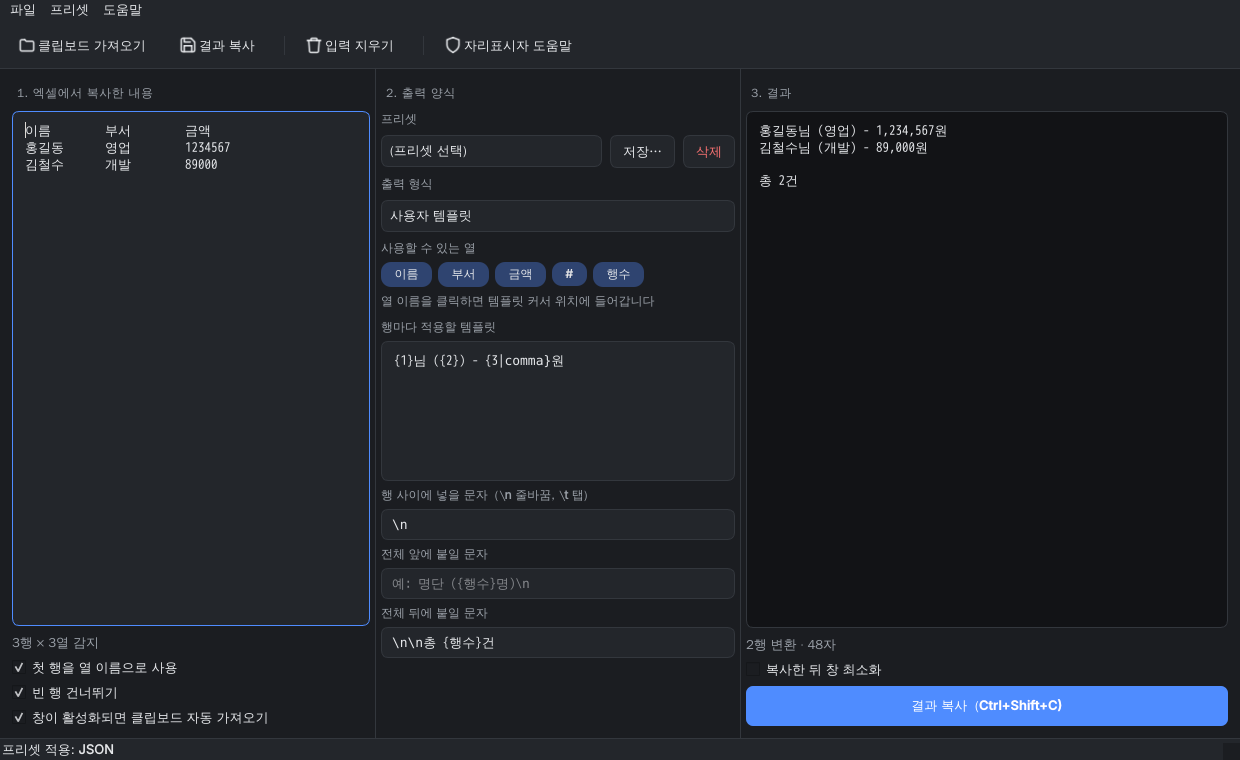
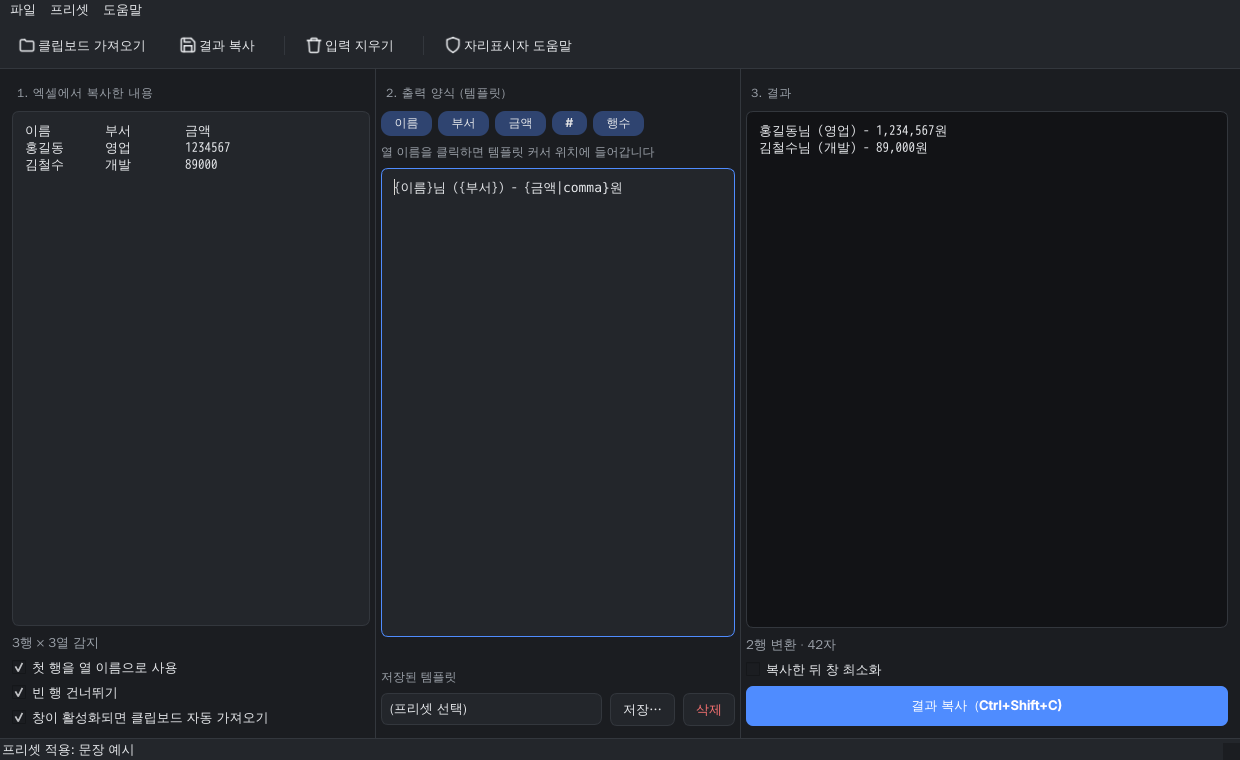
Excel Paster: 출력 양식을 템플릿 글상자 하나로 단순화
출력 형식 선택(마크다운/CSV/JSON)과 행 사이·앞·뒤 문자 칸을 없애고,
템플릿에 적은 글이 행마다 반복되어 줄바꿈으로 이어지는 방식만 남김.
여러 줄 템플릿은 그대로 행마다 반복되며, 끝에 빈 줄을 두면 행 사이가
띄어짐. 이전 버전 프리셋(row_template)도 읽힘. README·스크린샷 갱신.

Claude-Session: https://claude.ai/code/session_01BsTnYST2jFKeuSFEv2JFZG

diff --git a/excelpaster/core.py b/excelpaster/core.py
@@ -10,14 +10,6 @@ from dataclasses import asdict, dataclass, replace
 
 Table = list[list[str]]
 
-MODES = ("template", "markdown", "csv", "json")
-MODE_LABELS = {
-    "template": "사용자 템플릿",
-    "markdown": "마크다운 표",
-    "csv": "CSV",
-    "json": "JSON",
-}
-
 # 특수 자리표시자 (열 이름보다 우선하지 않음 — 같은 이름의 열이 있으면 열이 우선)
 ROW_NUMBER_KEYS = ("#", "행번호", "n", "row")
 ROW_COUNT_KEYS = ("행수", "rows", "count")
@@ -29,11 +21,7 @@ class FormatSpec:
     """변환 방법 하나. 프리셋으로 저장/불러오기 할 수 있도록 JSON 직렬화 가능."""
 
     name: str = ""
-    mode: str = "template"
-    row_template: str = "{1}"
-    joiner: str = "\\n"      # 행 사이 (이스케이프 문자열: \n, \t 사용 가능)
-    prefix: str = ""         # 전체 앞
-    suffix: str = ""         # 전체 뒤
+    template: str = "{1}"    # 행마다 반복되는 글. 행 사이는 줄바꿈
     header_row: bool = True  # 첫 행을 열 이름으로 사용
     skip_blank_rows: bool = True
 
@@ -43,10 +31,9 @@ class FormatSpec:
     @classmethod
     def from_dict(cls, d: dict) -> "FormatSpec":
         known = {k: v for k, v in d.items() if k in cls.__dataclass_fields__}
-        spec = cls(**known)
-        if spec.mode not in MODES:
-            spec.mode = "template"
-        return spec
+        if "template" not in known and "row_template" in d:  # 이전 버전 프리셋
+            known["template"] = d["row_template"]
+        return cls(**known)
 
     def copy(self, **changes) -> "FormatSpec":
         return replace(self, **changes)
@@ -100,15 +87,6 @@ def column_names(table: Table, header_row: bool) -> list[str]:
 
 
 # ---------------------------------------------------------------- 템플릿
-
-_ESC_RE = re.compile(r"\\(n|t|r|\\)")
-_ESC_MAP = {"n": "\n", "t": "\t", "r": "\r", "\\": "\\"}
-
-
-def unescape(s: str) -> str:
-    """한 줄짜리 입력칸에서 \\n, \\t 를 실제 문자로."""
-    return _ESC_RE.sub(lambda m: _ESC_MAP[m.group(1)], s)
-
 
 class TemplateError(ValueError):
     pass
@@ -275,83 +253,25 @@ def render_template(template: str, headers: list[str], row: list[str],
 
 # ---------------------------------------------------------------- 렌더링
 
-def _md_cell(s: str) -> str:
-    return s.replace("|", "\\|").replace("\r\n", "<br>").replace("\n", "<br>")
-
-
-def render_markdown(headers: list[str], data: Table) -> str:
-    if not headers:
-        return ""
-    cols = [h if h else str(i + 1) for i, h in enumerate(headers)]
-    widths = [len(c) for c in cols]
-    body = [[_md_cell(c) for c in r] for r in data]
-    for r in body:
-        for i, c in enumerate(r):
-            widths[i] = max(widths[i], len(c))
-    widths = [max(w, 3) for w in widths]
-
-    def line(cells: list[str]) -> str:
-        return "| " + " | ".join(c.ljust(widths[i]) for i, c in enumerate(cells)) + " |"
-
-    lines = [line(cols), "| " + " | ".join("-" * w for w in widths) + " |"]
-    lines.extend(line(r) for r in body)
-    return "\n".join(lines)
-
-
-def render_csv(headers: list[str], data: Table, header_row: bool) -> str:
-    buf = io.StringIO()
-    w = csv.writer(buf, lineterminator="\n")
-    if header_row:
-        w.writerow(headers)
-    w.writerows(data)
-    return buf.getvalue().rstrip("\n")
-
-
-def render_json(headers: list[str], data: Table, header_row: bool) -> str:
-    if header_row:
-        keys = [h if h else str(i + 1) for i, h in enumerate(headers)]
-        obj = [dict(zip(keys, r)) for r in data]
-    else:
-        obj = data
-    return json.dumps(obj, ensure_ascii=False, indent=2)
-
-
 def render(table: Table, spec: FormatSpec) -> str:
-    """표 전체를 spec 대로 텍스트로. 템플릿 오류는 TemplateError."""
+    """템플릿을 행마다 적용해 줄바꿈으로 이어 붙인 텍스트. 템플릿 오류는 TemplateError.
+
+    템플릿이 여러 줄이면 그 여러 줄이 행마다 반복된다. 템플릿 끝에 빈 줄을 두면 행 사이가 한 줄 띄어진다.
+    """
     headers, data = split_table(table, spec.header_row, spec.skip_blank_rows)
     if not headers:
         return ""
-    if spec.mode == "markdown":
-        body = render_markdown(headers, data)
-    elif spec.mode == "csv":
-        body = render_csv(headers, data, spec.header_row)
-    elif spec.mode == "json":
-        body = render_json(headers, data, spec.header_row)
-    else:
-        n = len(data)
-        rows = [render_template(spec.row_template, headers, r, i + 1, n) for i, r in enumerate(data)]
-        body = unescape(spec.joiner).join(rows)
-    meta_row = [""] * len(headers)
-    prefix = render_template(unescape(spec.prefix), headers, meta_row, 0, len(data)) if spec.prefix else ""
-    suffix = render_template(unescape(spec.suffix), headers, meta_row, 0, len(data)) if spec.suffix else ""
-    return prefix + body + suffix
+    n = len(data)
+    template = spec.template.replace("\r\n", "\n")
+    return "\n".join(render_template(template, headers, r, i + 1, n) for i, r in enumerate(data))
 
 
 # ---------------------------------------------------------------- 프리셋
 
 BUILTIN_PRESETS: list[FormatSpec] = [
-    FormatSpec(name="한 줄씩: 열을 쉼표로", mode="template",
-               row_template="{1}, {2}, {3}", joiner="\\n"),
-    FormatSpec(name="이름 목록 (쉼표로 이어 붙이기)", mode="template",
-               row_template="{1}", joiner=", "),
-    FormatSpec(name="번호 매기기", mode="template",
-               row_template="{#}. {1}", joiner="\\n"),
-    FormatSpec(name="문장 템플릿 예시", mode="template",
-               row_template="{1}님 ({2}) - {3|comma}원", joiner="\\n",
-               suffix="\\n\\n총 {행수}건"),
-    FormatSpec(name="마크다운 표", mode="markdown"),
-    FormatSpec(name="CSV", mode="csv"),
-    FormatSpec(name="JSON", mode="json"),
+    FormatSpec(name="열을 쉼표로 이어서 한 줄씩", template="{1}, {2}, {3}"),
+    FormatSpec(name="번호 매기기", template="{#}. {1}"),
+    FormatSpec(name="문장 예시", template="{1}님 ({2}) - {3|comma}원"),
 ]
 
 PRESETS_VERSION = 1
@@ -378,10 +298,13 @@ def load_presets(text: str) -> list[FormatSpec]:
 
 
 HELP_TEXT = """\
+템플릿에 적은 글이 엑셀의 한 행마다 반복되고, 행 사이는 줄바꿈으로 이어집니다.
+템플릿을 여러 줄로 쓰면 그 여러 줄이 행마다 반복됩니다. 끝에 빈 줄을 두면 행 사이가 띄어집니다.
+
 자리표시자
   {열이름}      첫 행의 열 이름으로 참조 (예: {이름}, {부서})
   {1} {2} …    열 번호로 참조 (헤더가 없어도 사용 가능)
-  {#}          행 번호 (1부터),   {행수} 전체 행 수,   {열수} 열 수
+  {#}          행 번호 (1부터),   {행수} 전체 행 수
   {{  }}        중괄호를 글자 그대로 넣을 때
 
 필터 (| 로 이어서, 여러 개 가능)
@@ -394,6 +317,4 @@ HELP_TEXT = """\
   {비고|replace:a,b}  a 를 b 로 바꿈
   {메모|oneline}      셀 안의 줄바꿈·연속 공백을 한 칸으로
   {값|quote}          큰따옴표로 감싸기
-
-행 사이 / 앞 / 뒤 칸에서는 \\n (줄바꿈), \\t (탭) 을 쓸 수 있습니다.
 """

diff --git a/tests/test_paster.py b/tests/test_paster.py
@@ -1,5 +1,3 @@
-import json
-
 from excelpaster.core import (
     FormatSpec,
     column_names,
@@ -8,7 +6,6 @@ from excelpaster.core import (
     parse_table,
     render,
     render_template,
-    unescape,
     unknown_placeholders,
 )
 
@@ -36,23 +33,23 @@ def test_parse_pads_ragged_rows_and_single_column():
 
 def test_template_by_header_number_and_specials():
     t = parse_table(EXCEL)
-    spec = FormatSpec(row_template="{#}/{행수} {이름}({2}) {금액|comma}원", joiner="\\n")
+    spec = FormatSpec(template="{#}/{행수} {이름}({2}) {금액|comma}원")
     assert render(t, spec) == "1/2 홍길동(영업) 1,234,567원\n2/2 김철수(개발) 89,000원"
 
 
 def test_template_without_header_row():
     t = parse_table("홍길동\t영업\n김철수\t개발\n")
-    spec = FormatSpec(row_template="{1}-{2}", joiner=", ", header_row=False)
-    assert render(t, spec) == "홍길동-영업, 김철수-개발"
+    spec = FormatSpec(template="{1}-{2}", header_row=False)
+    assert render(t, spec) == "홍길동-영업\n김철수-개발"
     assert column_names(t, False) == ["1", "2"]
     assert column_names(parse_table(EXCEL), True) == ["이름", "부서", "금액"]
 
 
-def test_prefix_suffix_and_escapes():
+def test_multiline_template_repeats_per_row():
     t = parse_table(EXCEL)
-    spec = FormatSpec(row_template="{이름}", joiner="\\t", prefix="[{행수}명]\\n", suffix="\\n끝")
-    assert render(t, spec) == "[2명]\n홍길동\t김철수\n끝"
-    assert unescape(r"a\nb\tc\\d") == "a\nb\tc\\d"
+    spec = FormatSpec(template="■ {이름}\n  부서: {부서}\n")
+    assert render(t, spec) == "■ 홍길동\n  부서: 영업\n\n■ 김철수\n  부서: 개발\n"
+    assert render(t, FormatSpec(template="{이름}\r\n{부서}")) == "홍길동\n영업\n김철수\n개발"
 
 
 def test_unknown_placeholder_left_as_is_and_reported():
@@ -82,35 +79,16 @@ def test_header_name_case_insensitive_and_duplicates():
 
 def test_skip_blank_rows():
     t = parse_table("h\na\n\t\nb\n")
-    assert render(t, FormatSpec(row_template="{h}", joiner=",")) == "a,b"
-    assert render(t, FormatSpec(row_template="{h}", joiner=",", skip_blank_rows=False)) == "a,,b"
-
-
-def test_markdown():
-    t = parse_table("이름\t비고\n홍길동\ta|b\n김\t\"두\n줄\"\n")
-    out = render(t, FormatSpec(mode="markdown"))
-    assert out.splitlines() == [
-        "| 이름  | 비고     |",
-        "| --- | ------ |",
-        "| 홍길동 | a\\|b   |",
-        "| 김   | 두<br>줄 |",
-    ]
-
-
-def test_csv_and_json():
-    t = parse_table(EXCEL)
-    assert render(t, FormatSpec(mode="csv")) == "이름,부서,금액\n홍길동,영업,1234567\n김철수,개발,89000"
-    assert render(t, FormatSpec(mode="csv", header_row=False)).startswith("이름,부서,금액\n")
-    obj = json.loads(render(t, FormatSpec(mode="json")))
-    assert obj == [{"이름": "홍길동", "부서": "영업", "금액": "1234567"},
-                   {"이름": "김철수", "부서": "개발", "금액": "89000"}]
-    assert json.loads(render(t, FormatSpec(mode="json", header_row=False)))[0] == ["이름", "부서", "금액"]
+    assert render(t, FormatSpec(template="{h}")) == "a\nb"
+    assert render(t, FormatSpec(template="{h}", skip_blank_rows=False)) == "a\n\nb"
 
 
 def test_presets_roundtrip_and_bad_input():
-    presets = [FormatSpec(name="a", row_template="{1}"), FormatSpec(name="b", mode="csv")]
+    presets = [FormatSpec(name="a", template="{1}"), FormatSpec(name="b", template="{2}\n", header_row=False)]
     back = load_presets(dump_presets(presets))
     assert back == presets
     assert load_presets("") == []
     assert load_presets("not json") == []
-    assert load_presets('{"presets":[{"name":"x","mode":"weird","extra":1}]}')[0].mode == "template"
+    # 이전 버전 프리셋(row_template, mode 등) 도 읽힘
+    old = '{"presets":[{"name":"x","mode":"template","row_template":"{이름}","joiner":"\\\\n","extra":1}]}'
+    assert load_presets(old)[0] == FormatSpec(name="x", template="{이름}")
